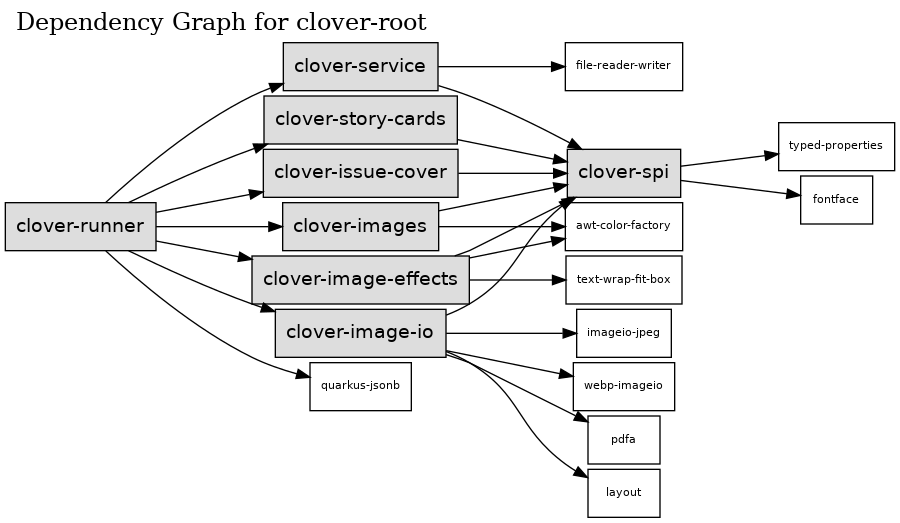
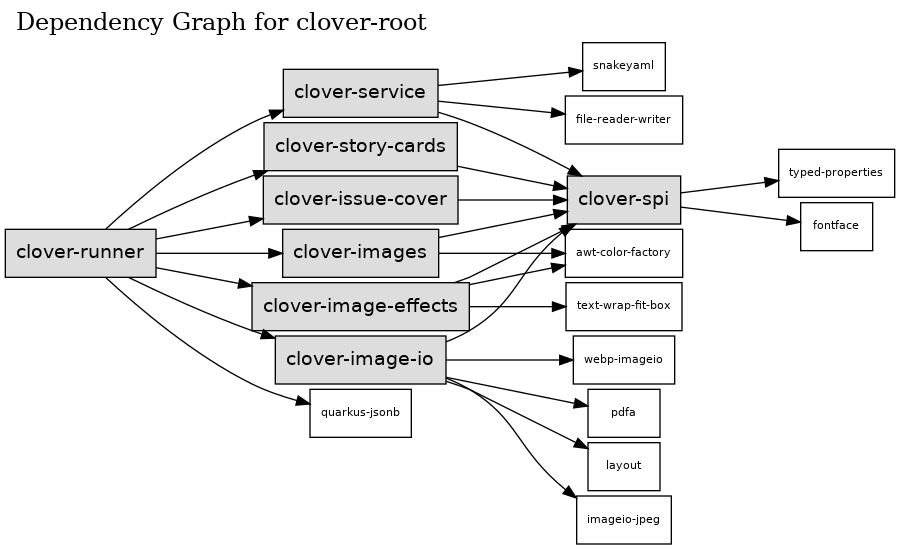
Support reading config from YAML file (#114)
* parent: add snakeyaml 1.28

* service: don’t pin java version to 11

* Update quarkus path to runner jar

* service: add snakeyaml dependency

* service: load config from Yaml file

* Use ISSUE_DIR to specify location of issue

Changed region(s): [[0.0, 0.0306, 0.9956, 0.8566], [0.6222, 0.8872, 0.7467, 1.0], [0.5911, 0.826, 0.6222, 0.8872]]

diff --git a/service/src/main/java/net/kemitix/clover/service/ServiceIssueConfig.java b/service/src/main/java/net/kemitix/clover/service/ServiceIssueConfig.java
@@ -2,11 +2,18 @@ package net.kemitix.clover.service;
 
 import lombok.Getter;
 import lombok.Setter;
-import net.kemitix.clover.spi.*;
+import net.kemitix.clover.spi.BackCoverBackgroundBox;
+import net.kemitix.clover.spi.IssueAuthor;
+import net.kemitix.clover.spi.IssueCards;
+import net.kemitix.clover.spi.IssueConfig;
+import net.kemitix.clover.spi.IssueCrop;
+import net.kemitix.clover.spi.IssueStories;
+import net.kemitix.clover.spi.IssueStory;
+import net.kemitix.clover.spi.IssueStoryCards;
+import net.kemitix.clover.spi.TextEffect;
 
 import javax.enterprise.inject.Vetoed;
-import javax.json.bind.annotation.JsonbProperty;
-import java.util.*;
+import java.util.List;
 
 @Vetoed
 @Setter
@@ -18,52 +25,30 @@ public class ServiceIssueConfig implements IssueConfig {
 
     private String issue;
     private String date;
-    @JsonbProperty("title-colour")
     private String titleColour;
-    @JsonbProperty("sub-title-colour")
     private String subTitleColour;
-    @JsonbProperty("text-colour")
     private String textColour;
     private float spine;
-    @JsonbProperty("paperback-x-offset")
     private int paperbackXOffset;
-    @JsonbProperty("paperback-y-offset")
     private int paperbackYOffset;
-    @JsonbProperty("kindle-x-offset")
     private int kindleXOffset;
-    @JsonbProperty("kindle-y-offset")
     private int kindleYOffset;
-    @JsonbProperty("authors-x-offset")
     private int authorsXOffset;
-    @JsonbProperty("authors-y-offset")
     private int authorsYOffset;
     private Cards cards;
-    @JsonbProperty("stories-alignment")
     private TextEffect.HAlignment storiesAlignment;
     private Stories stories;
-    @JsonbProperty("cover-art")
     private String coverArt;
-    @JsonbProperty("cover-artist")
     private String coverArtist;
-    @JsonbProperty("publication-title")
     private String publicationTitle;
-    @JsonbProperty("front-width")
     private int frontWidth;
-    @JsonbProperty("story-cards")
     private StoryCards storyCards;
-    @JsonbProperty("sf-top")
     private int sfTop;
-    @JsonbProperty("sf-left")
     private int sfLeft;
-    @JsonbProperty("fantasy-top")
     private int fantasyTop;
-    @JsonbProperty("fantasy-left")
     private int fantasyLeft;
-    @JsonbProperty("reprint-top")
     private int reprintTop;
-    @JsonbProperty("reprint-left")
     private int reprintLeft;
-    @JsonbProperty("back-cover-background-box")
     private BackCoverBackgroundBox backCoverBackgroundBox;
 
     @Setter

diff --git a/service/src/main/java/net/kemitix/clover/service/IssueConfigLoader.java b/service/src/main/java/net/kemitix/clover/service/IssueConfigLoader.java
@@ -6,10 +6,14 @@ import net.kemitix.clover.spi.ImageLoader;
 import net.kemitix.clover.spi.IssueConfig;
 import net.kemitix.files.FileReader;
 import net.kemitix.files.FileReaderWriter;
+import org.yaml.snakeyaml.Yaml;
+import org.yaml.snakeyaml.constructor.Constructor;
+import org.yaml.snakeyaml.error.YAMLException;
 
 import javax.enterprise.context.ApplicationScoped;
 import javax.enterprise.inject.Produces;
 import javax.json.bind.Jsonb;
+import java.io.File;
 import java.io.IOException;
 import java.nio.file.Path;
 import java.nio.file.Paths;
@@ -29,16 +33,35 @@ public class IssueConfigLoader {
 
     @Produces
     @ApplicationScoped
-    public IssueConfig loadIssueJson(
+    public IssueConfig loadIssue(
             final CloverProperties config,
-            final FileReader fileReader,
-            final Jsonb jsonb
-    ) throws IOException {
-        final Path cloverJsonPath =
-                Paths.get(config.getIssueDir(), config.getConfigFile());
-        LOGGER.info("Reading: " + cloverJsonPath);
-        final String json = fileReader.read(cloverJsonPath.toFile());
-        return jsonb.fromJson(json, ServiceIssueConfig.class);
+            final FileReader fileReader
+    ) {
+        final File cloverFile =
+                Paths.get(config.getIssueDir(), config.getConfigFile())
+                .toFile();
+        LOGGER.info("Reading: " + cloverFile.getAbsolutePath());
+        return parseYamlFromFile(cloverFile, ServiceIssueConfig.class, fileReader);
+    }
+
+    private <T> T parseYamlFromFile(
+            final File file,
+            final Class<T> theRoot,
+            final FileReader fileReader
+    ) {
+        try {
+            Yaml yaml = new Yaml(new Constructor(theRoot));
+            T loaded = yaml.load(fileReader.read(file));
+            if (loaded == null) {
+                throw new RuntimeException("File not compatible with %%s: %s%s"
+                        .formatted(theRoot.getName(), file));
+            }
+            return loaded;
+        } catch (YAMLException | IOException e) {
+            throw new RuntimeException("Error reading a %s from file %s"
+                    .formatted(theRoot.getName(), file), e);
+        }
+
     }
 
     @Produces

diff --git a/service/src/test/java/net/kemitix/clover/service/IssueConfigLoaderTest.java b/service/src/test/java/net/kemitix/clover/service/IssueConfigLoaderTest.java
@@ -9,13 +9,10 @@ import org.junit.jupiter.api.extension.ExtendWith;
 import org.mockito.Mock;
 import org.mockito.junit.jupiter.MockitoExtension;
 
-import javax.json.bind.Jsonb;
-import javax.json.bind.JsonbBuilder;
 import java.io.IOException;
 import java.util.UUID;
 
 import static org.assertj.core.api.Assertions.assertThat;
-import static org.mockito.AdditionalMatchers.eq;
 import static org.mockito.ArgumentMatchers.any;
 import static org.mockito.BDDMockito.given;
 
@@ -24,7 +21,6 @@ public class IssueConfigLoaderTest {
 
     private final CloverProperties cloverConfig;
     private final String issueNumber = UUID.randomUUID().toString();
-    private final Jsonb jsonb = JsonbBuilder.create();
     private final IssueConfigLoader issueLoader = new IssueConfigLoader();
     private final FileReader fileReader;
 
@@ -37,21 +33,22 @@ public class IssueConfigLoaderTest {
     }
 
     @Test
-    @DisplayName("Loads the clover.json file")
-    public void loadIssueJson() throws IOException {
+    @DisplayName("Loads the clover.yaml file")
+    public void loadIssueYaml() throws IOException {
         //given
         given(cloverConfig.getIssueDir()).willReturn("dir");
-        given(cloverConfig.getConfigFile()).willReturn("clover.json");
+        given(cloverConfig.getConfigFile()).willReturn("clover.yaml");
         final String content =
-                String.format("{" +
-                        "\"issue\":\"%s\"," +
-                        "\"title-colour\":\"red\"," +
-                        "\"sub-title-colour\":\"yellow\"" +
-                        "}", issueNumber);
+                """
+                        ---
+                        issue: %s
+                        titleColour: red
+                        subTitleColour: yellow
+                        """.formatted(issueNumber);
         given(fileReader.read(any())).willReturn(content);
         //when
         final IssueConfig issue =
-                issueLoader.loadIssueJson(cloverConfig, fileReader, jsonb);
+                issueLoader.loadIssue(cloverConfig, fileReader);
         //then
         assertThat(issue.getIssue()).isEqualTo(issueNumber);
         assertThat(issue.getTitleColour()).isEqualTo("red");

diff --git a/issue-cover/src/main/java/net/kemitix/clover/issue/StoriesReprints.java b/issue-cover/src/main/java/net/kemitix/clover/issue/StoriesReprints.java
@@ -8,6 +8,9 @@ import net.kemitix.properties.typed.TypedProperties;
 import javax.enterprise.context.ApplicationScoped;
 import javax.inject.Inject;
 import java.awt.*;
+import java.util.Collections;
+import java.util.List;
+import java.util.Objects;
 
 @BackCover
 @ApplicationScoped
@@ -31,7 +34,10 @@ public class StoriesReprints extends AbstractElement {
     }
 
     private String text() {
-        var reprints = issueConfig.getStories().getReprint();
+        List<? extends IssueStory> reprints = Objects.requireNonNullElseGet(
+                issueConfig.getStories().getReprint(),
+                Collections::emptyList
+        );
         if (reprints.isEmpty()) {
             return "";
         }

diff --git a/spi/src/main/java/net/kemitix/clover/spi/BackCoverBackgroundBox.java b/spi/src/main/java/net/kemitix/clover/spi/BackCoverBackgroundBox.java
@@ -6,7 +6,6 @@ import lombok.Setter;
 import lombok.ToString;
 
 import javax.enterprise.inject.Vetoed;
-import javax.json.bind.annotation.JsonbProperty;
 
 @Vetoed
 @Setter
@@ -16,15 +15,10 @@ import javax.json.bind.annotation.JsonbProperty;
 public class BackCoverBackgroundBox {
 
     private boolean show;
-    @JsonbProperty("outer-box")
     private Box outerBox;
-    @JsonbProperty("middle-box")
     private Box middleBox;
-    @JsonbProperty("inner-box")
     private Box innerBox;
-    @JsonbProperty("outer-margin")
     private int outerMargin;
-    @JsonbProperty("margin-step")
     private int marginStep;
 
     @Vetoed

diff --git a/runner/src/main/java/net/kemitix/clover/ServiceCloverProperties.java b/runner/src/main/java/net/kemitix/clover/ServiceCloverProperties.java
@@ -10,6 +10,7 @@ import java.io.File;
 import java.net.URI;
 import java.util.Arrays;
 import java.util.List;
+import java.util.Objects;
 
 @Setter
 @Getter
@@ -54,7 +55,10 @@ public class ServiceCloverProperties implements CloverProperties {
 
     @Override
     public String getIssueDir() {
-        return System.getProperty("user.dir");
+        return Objects.requireNonNullElseGet(
+                System.getenv("ISSUE_DIR"),
+                () -> System.getProperty("user.dir")
+        );
     }
 
     @Override

diff --git a/spi/src/main/java/net/kemitix/clover/spi/IssueStories.java b/spi/src/main/java/net/kemitix/clover/spi/IssueStories.java
@@ -2,6 +2,7 @@ package net.kemitix.clover.spi;
 
 import java.util.Collection;
 import java.util.List;
+import java.util.Objects;
 import java.util.stream.Stream;
 
 public interface IssueStories {
@@ -14,6 +15,7 @@ public interface IssueStories {
 
     default Stream<IssueStory> stream() {
         return Stream.of(getSf(), getFantasy(), getReprint())
+                .filter(Objects::nonNull)
                 .flatMap(Collection::stream);
     }
 }
